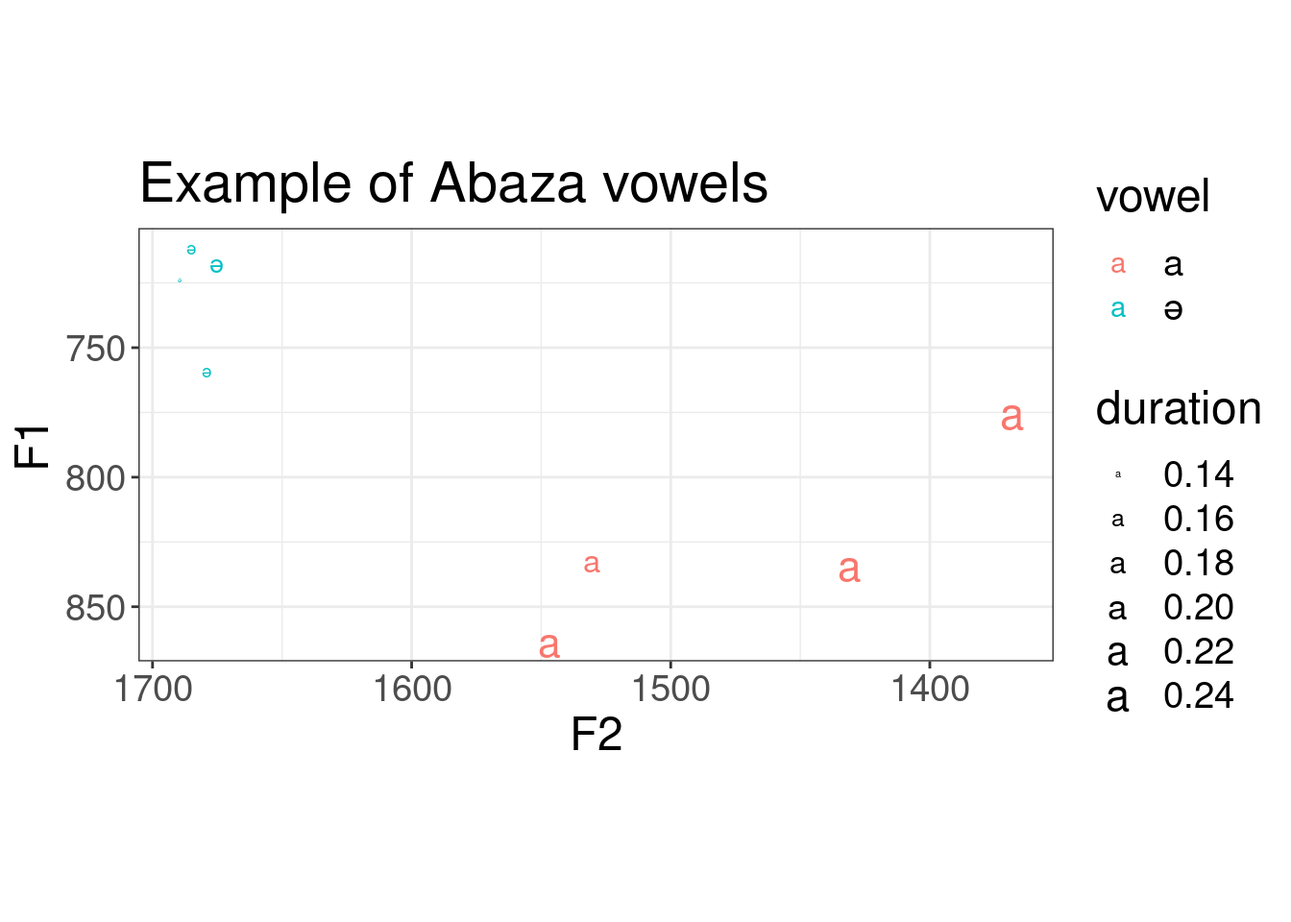
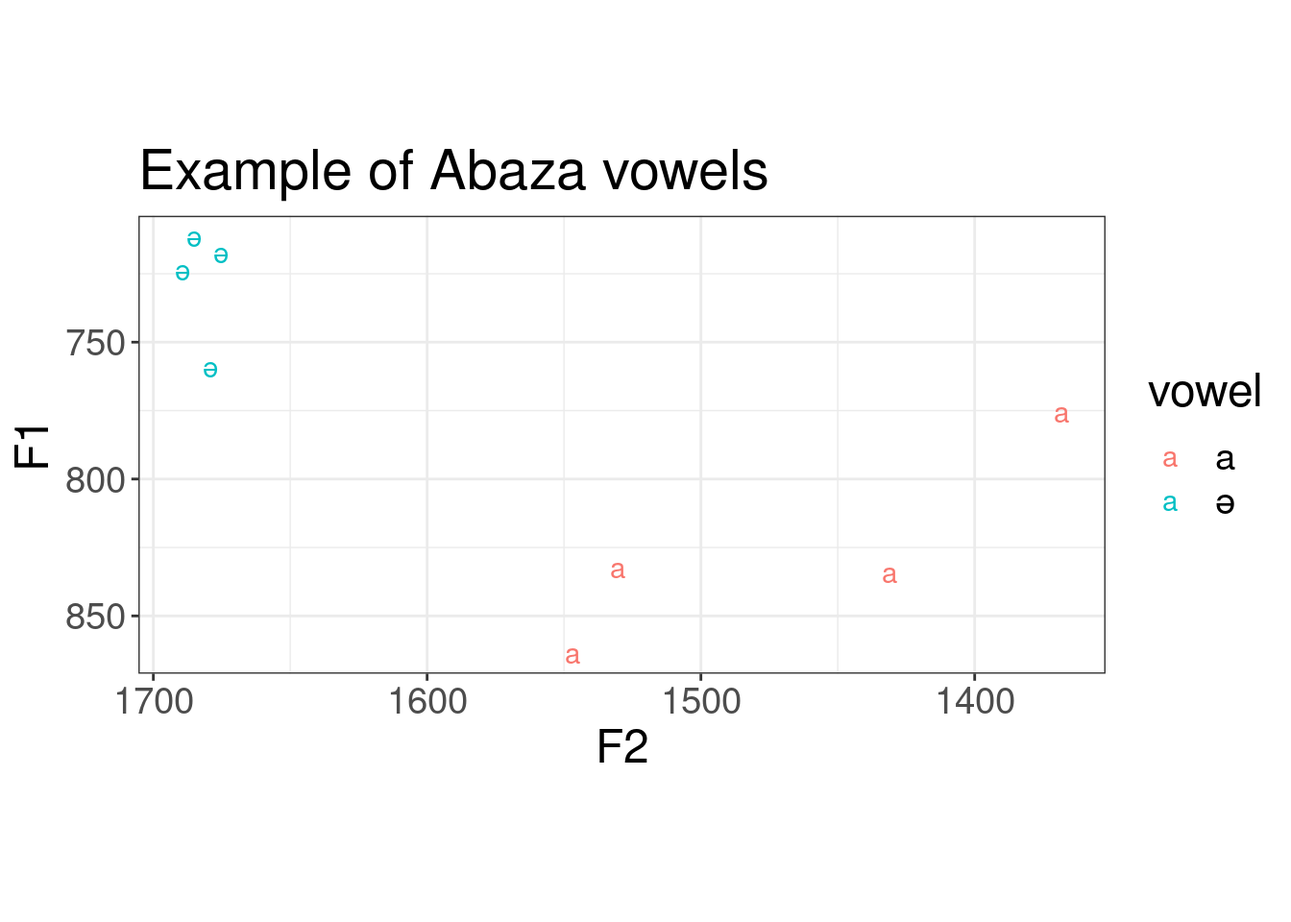
add scale

diff --git a/docs/r-packages-for-phonetics.html b/docs/r-packages-for-phonetics.html
@@ -163,7 +163,8 @@ div.csl-indent {
 <li class="chapter" data-level="1" data-path="index.html"><a href="index.html"><i class="fa fa-check"></i><b>1</b> About the course</a>
 <ul>
 <li class="chapter" data-level="1.1" data-path="index.html"><a href="index.html#recording-in-case-you-missed-the-class"><i class="fa fa-check"></i><b>1.1</b> Recording in case you missed the class</a></li>
-<li class="chapter" data-level="1.2" data-path="index.html"><a href="index.html#useful-references"><i class="fa fa-check"></i><b>1.2</b> Useful references:</a></li>
+<li class="chapter" data-level="1.2" data-path="index.html"><a href="index.html#homeworks"><i class="fa fa-check"></i><b>1.2</b> Homeworks</a></li>
+<li class="chapter" data-level="1.3" data-path="index.html"><a href="index.html#useful-references"><i class="fa fa-check"></i><b>1.3</b> Useful references:</a></li>
 </ul></li>
 <li class="chapter" data-level="2" data-path="introduction-to-acoustic-phonetics.html"><a href="introduction-to-acoustic-phonetics.html"><i class="fa fa-check"></i><b>2</b> Introduction to Acoustic Phonetics</a>
 <ul>
@@ -545,7 +546,7 @@ div.csl-indent {
 <span id="cb34-5"><a href="r-packages-for-phonetics.html#cb34-5" aria-hidden="true" tabindex="-1"></a>                           vowel <span class="sc">==</span> <span class="st">&quot;E&quot;</span> <span class="sc">~</span> <span class="st">&quot;ɛ&quot;</span>,</span>
 <span id="cb34-6"><a href="r-packages-for-phonetics.html#cb34-6" aria-hidden="true" tabindex="-1"></a>                           vowel <span class="sc">==</span> <span class="st">&quot;e&quot;</span> <span class="sc">~</span> <span class="st">&quot;e&quot;</span>,</span>
 <span id="cb34-7"><a href="r-packages-for-phonetics.html#cb34-7" aria-hidden="true" tabindex="-1"></a>                           vowel <span class="sc">==</span> <span class="st">&quot;u&quot;</span> <span class="sc">~</span> <span class="st">&quot;u&quot;</span>,</span>
-<span id="cb34-8"><a href="r-packages-for-phonetics.html#cb34-8" aria-hidden="true" tabindex="-1"></a>                           vowel <span class="sc">==</span> <span class="st">&quot;U&quot;</span> <span class="sc">~</span> <span class="st">&quot;ʊ&quot;</span>,                           </span>
+<span id="cb34-8"><a href="r-packages-for-phonetics.html#cb34-8" aria-hidden="true" tabindex="-1"></a>                           vowel <span class="sc">==</span> <span class="st">&quot;U&quot;</span> <span class="sc">~</span> <span class="st">&quot;ʊ&quot;</span>,                  </span>
 <span id="cb34-9"><a href="r-packages-for-phonetics.html#cb34-9" aria-hidden="true" tabindex="-1"></a>                           vowel <span class="sc">==</span> <span class="st">&quot;{&quot;</span> <span class="sc">~</span> <span class="st">&quot;æ&quot;</span>,</span>
 <span id="cb34-10"><a href="r-packages-for-phonetics.html#cb34-10" aria-hidden="true" tabindex="-1"></a>                           vowel <span class="sc">==</span> <span class="st">&quot;V&quot;</span> <span class="sc">~</span> <span class="st">&quot;ʌ&quot;</span>,</span>
 <span id="cb34-11"><a href="r-packages-for-phonetics.html#cb34-11" aria-hidden="true" tabindex="-1"></a>                           vowel <span class="sc">==</span> <span class="st">&quot;A&quot;</span> <span class="sc">~</span> <span class="st">&quot;ɑ&quot;</span>,</span>
@@ -560,8 +561,34 @@ div.csl-indent {
 <span id="cb34-20"><a href="r-packages-for-phonetics.html#cb34-20" aria-hidden="true" tabindex="-1"></a>  <span class="fu">coord_fixed</span>()<span class="sc">+</span></span>
 <span id="cb34-21"><a href="r-packages-for-phonetics.html#cb34-21" aria-hidden="true" tabindex="-1"></a>  <span class="fu">facet_wrap</span>(<span class="sc">~</span>type)</span></code></pre></div>
 <p><img src="2022_instrumental_phonetics_files/figure-html/unnamed-chunk-24-1.png" width="1152" /></p>
+<p>It also make sense to use normalisation for vowels:</p>
+<div class="sourceCode" id="cb35"><pre class="sourceCode r"><code class="sourceCode r"><span id="cb35-1"><a href="r-packages-for-phonetics.html#cb35-1" aria-hidden="true" tabindex="-1"></a>h95 <span class="sc">%&gt;%</span> </span>
+<span id="cb35-2"><a href="r-packages-for-phonetics.html#cb35-2" aria-hidden="true" tabindex="-1"></a>  <span class="fu">mutate</span>(<span class="at">vowel =</span> <span class="fu">case_when</span>(vowel <span class="sc">==</span> <span class="st">&quot;I&quot;</span> <span class="sc">~</span> <span class="st">&quot;ɪ&quot;</span>,</span>
+<span id="cb35-3"><a href="r-packages-for-phonetics.html#cb35-3" aria-hidden="true" tabindex="-1"></a>                           vowel <span class="sc">==</span> <span class="st">&quot;i&quot;</span> <span class="sc">~</span> <span class="st">&quot;i&quot;</span>,</span>
+<span id="cb35-4"><a href="r-packages-for-phonetics.html#cb35-4" aria-hidden="true" tabindex="-1"></a>                           vowel <span class="sc">==</span> <span class="st">&quot;E&quot;</span> <span class="sc">~</span> <span class="st">&quot;ɛ&quot;</span>,</span>
+<span id="cb35-5"><a href="r-packages-for-phonetics.html#cb35-5" aria-hidden="true" tabindex="-1"></a>                           vowel <span class="sc">==</span> <span class="st">&quot;e&quot;</span> <span class="sc">~</span> <span class="st">&quot;e&quot;</span>,</span>
+<span id="cb35-6"><a href="r-packages-for-phonetics.html#cb35-6" aria-hidden="true" tabindex="-1"></a>                           vowel <span class="sc">==</span> <span class="st">&quot;u&quot;</span> <span class="sc">~</span> <span class="st">&quot;u&quot;</span>,</span>
+<span id="cb35-7"><a href="r-packages-for-phonetics.html#cb35-7" aria-hidden="true" tabindex="-1"></a>                           vowel <span class="sc">==</span> <span class="st">&quot;U&quot;</span> <span class="sc">~</span> <span class="st">&quot;ʊ&quot;</span>,                  </span>
+<span id="cb35-8"><a href="r-packages-for-phonetics.html#cb35-8" aria-hidden="true" tabindex="-1"></a>                           vowel <span class="sc">==</span> <span class="st">&quot;{&quot;</span> <span class="sc">~</span> <span class="st">&quot;æ&quot;</span>,</span>
+<span id="cb35-9"><a href="r-packages-for-phonetics.html#cb35-9" aria-hidden="true" tabindex="-1"></a>                           vowel <span class="sc">==</span> <span class="st">&quot;V&quot;</span> <span class="sc">~</span> <span class="st">&quot;ʌ&quot;</span>,</span>
+<span id="cb35-10"><a href="r-packages-for-phonetics.html#cb35-10" aria-hidden="true" tabindex="-1"></a>                           vowel <span class="sc">==</span> <span class="st">&quot;A&quot;</span> <span class="sc">~</span> <span class="st">&quot;ɑ&quot;</span>,</span>
+<span id="cb35-11"><a href="r-packages-for-phonetics.html#cb35-11" aria-hidden="true" tabindex="-1"></a>                           vowel <span class="sc">==</span> <span class="st">&quot;O&quot;</span> <span class="sc">~</span> <span class="st">&quot;ɔ&quot;</span>,</span>
+<span id="cb35-12"><a href="r-packages-for-phonetics.html#cb35-12" aria-hidden="true" tabindex="-1"></a>                           vowel <span class="sc">==</span> <span class="st">&quot;o&quot;</span> <span class="sc">~</span> <span class="st">&quot;o&quot;</span>,</span>
+<span id="cb35-13"><a href="r-packages-for-phonetics.html#cb35-13" aria-hidden="true" tabindex="-1"></a>                           vowel <span class="sc">==</span> <span class="st">&quot;3&#39;&quot;</span> <span class="sc">~</span> <span class="st">&quot;ɝ&quot;</span>)) <span class="sc">%&gt;%</span> </span>
+<span id="cb35-14"><a href="r-packages-for-phonetics.html#cb35-14" aria-hidden="true" tabindex="-1"></a>  <span class="fu">group_by</span>(speaker) <span class="sc">%&gt;%</span> </span>
+<span id="cb35-15"><a href="r-packages-for-phonetics.html#cb35-15" aria-hidden="true" tabindex="-1"></a>  <span class="fu">mutate</span>(<span class="at">f1 =</span> <span class="fu">scale</span>(f1),</span>
+<span id="cb35-16"><a href="r-packages-for-phonetics.html#cb35-16" aria-hidden="true" tabindex="-1"></a>         <span class="at">f2 =</span> <span class="fu">scale</span>(f2)) <span class="sc">%&gt;%</span> </span>
+<span id="cb35-17"><a href="r-packages-for-phonetics.html#cb35-17" aria-hidden="true" tabindex="-1"></a>  <span class="fu">ggplot</span>(<span class="fu">aes</span>(f2, f1, <span class="at">label =</span> vowel, <span class="at">color =</span> vowel))<span class="sc">+</span></span>
+<span id="cb35-18"><a href="r-packages-for-phonetics.html#cb35-18" aria-hidden="true" tabindex="-1"></a>  <span class="fu">stat_ellipse</span>()<span class="sc">+</span></span>
+<span id="cb35-19"><a href="r-packages-for-phonetics.html#cb35-19" aria-hidden="true" tabindex="-1"></a>  <span class="fu">geom_text</span>()<span class="sc">+</span></span>
+<span id="cb35-20"><a href="r-packages-for-phonetics.html#cb35-20" aria-hidden="true" tabindex="-1"></a>  <span class="fu">scale_x_reverse</span>()<span class="sc">+</span></span>
+<span id="cb35-21"><a href="r-packages-for-phonetics.html#cb35-21" aria-hidden="true" tabindex="-1"></a>  <span class="fu">scale_y_reverse</span>()<span class="sc">+</span></span>
+<span id="cb35-22"><a href="r-packages-for-phonetics.html#cb35-22" aria-hidden="true" tabindex="-1"></a>  <span class="fu">coord_fixed</span>()<span class="sc">+</span></span>
+<span id="cb35-23"><a href="r-packages-for-phonetics.html#cb35-23" aria-hidden="true" tabindex="-1"></a>  <span class="fu">facet_wrap</span>(<span class="sc">~</span>type)<span class="sc">+</span></span>
+<span id="cb35-24"><a href="r-packages-for-phonetics.html#cb35-24" aria-hidden="true" tabindex="-1"></a>  <span class="fu">labs</span>(<span class="at">title =</span> <span class="st">&quot;Normalized vowels&quot;</span>)</span></code></pre></div>
+<p><img src="2022_instrumental_phonetics_files/figure-html/unnamed-chunk-25-1.png" width="672" /></p>
 <p>If you will use the package it make sense to cite it:</p>
-<div class="sourceCode" id="cb35"><pre class="sourceCode r"><code class="sourceCode r"><span id="cb35-1"><a href="r-packages-for-phonetics.html#cb35-1" aria-hidden="true" tabindex="-1"></a><span class="fu">citation</span>(<span class="st">&quot;phonTools&quot;</span>)</span></code></pre></div>
+<div class="sourceCode" id="cb36"><pre class="sourceCode r"><code class="sourceCode r"><span id="cb36-1"><a href="r-packages-for-phonetics.html#cb36-1" aria-hidden="true" tabindex="-1"></a><span class="fu">citation</span>(<span class="st">&quot;phonTools&quot;</span>)</span></code></pre></div>
 <pre><code>## 
 ## To cite package &#39;phonTools&#39; in publications use:
 ## 
@@ -581,7 +608,7 @@ div.csl-indent {
 <h2><span class="header-section-number">5.3</span> <code>vowels</code></h2>
 <p>Procedures for the manipulation, normalization, and plotting of phonetic and sociophonetic vowel formant data. <code>vowels</code> is the backend for the <a href="http://lingtools.uoregon.edu/norm/about_norm1.php">NORM website</a>.</p>
 <p>If you will use the package it make sense to cite it:</p>
-<div class="sourceCode" id="cb37"><pre class="sourceCode r"><code class="sourceCode r"><span id="cb37-1"><a href="r-packages-for-phonetics.html#cb37-1" aria-hidden="true" tabindex="-1"></a><span class="fu">citation</span>(<span class="st">&quot;vowels&quot;</span>)</span></code></pre></div>
+<div class="sourceCode" id="cb38"><pre class="sourceCode r"><code class="sourceCode r"><span id="cb38-1"><a href="r-packages-for-phonetics.html#cb38-1" aria-hidden="true" tabindex="-1"></a><span class="fu">citation</span>(<span class="st">&quot;vowels&quot;</span>)</span></code></pre></div>
 <pre><code>## 
 ## To cite package &#39;vowels&#39; in publications use:
 ## 
@@ -607,7 +634,7 @@ div.csl-indent {
 <h2><span class="header-section-number">5.4</span> <code>rPraat</code></h2>
 <p>This is a package for reading, writing and manipulating Praat objects like TextGrid, PitchTier, Pitch, IntensityTier, Formant, Sound, and Collection files. You can find the demo for <code>rPraat</code> <a href="https://fu.ff.cuni.cz/praat/rDemo.html">here</a>.</p>
 <p>If you will use the package it make sense to cite it:</p>
-<div class="sourceCode" id="cb39"><pre class="sourceCode r"><code class="sourceCode r"><span id="cb39-1"><a href="r-packages-for-phonetics.html#cb39-1" aria-hidden="true" tabindex="-1"></a><span class="fu">citation</span>(<span class="st">&quot;rPraat&quot;</span>)</span></code></pre></div>
+<div class="sourceCode" id="cb40"><pre class="sourceCode r"><code class="sourceCode r"><span id="cb40-1"><a href="r-packages-for-phonetics.html#cb40-1" aria-hidden="true" tabindex="-1"></a><span class="fu">citation</span>(<span class="st">&quot;rPraat&quot;</span>)</span></code></pre></div>
 <pre><code>## 
 ## To cite rPraat in publications use:
 ## 
@@ -635,7 +662,7 @@ div.csl-indent {
 <h2><span class="header-section-number">5.5</span> <code>ipa</code></h2>
 <p>Converts character vectors between phonetic representations. Supports IPA (International Phonetic Alphabet), X-SAMPA (Extended Speech Assessment Methods Phonetic Alphabet), and ARPABET (used by the CMU Pronouncing Dictionary).</p>
 <p>If you will use the package it make sense to cite it:</p>
-<div class="sourceCode" id="cb41"><pre class="sourceCode r"><code class="sourceCode r"><span id="cb41-1"><a href="r-packages-for-phonetics.html#cb41-1" aria-hidden="true" tabindex="-1"></a><span class="fu">citation</span>(<span class="st">&quot;ipa&quot;</span>)</span></code></pre></div>
+<div class="sourceCode" id="cb42"><pre class="sourceCode r"><code class="sourceCode r"><span id="cb42-1"><a href="r-packages-for-phonetics.html#cb42-1" aria-hidden="true" tabindex="-1"></a><span class="fu">citation</span>(<span class="st">&quot;ipa&quot;</span>)</span></code></pre></div>
 <pre><code>## 
 ## To cite ipa in publications use:
 ## 
@@ -707,17 +734,17 @@ for interval to intervals - 1
     endif
 endfor</code></pre>
 <p>In order to use it you need to provide path to the script:</p>
-<div class="sourceCode" id="cb46"><pre class="sourceCode r"><code class="sourceCode r"><span id="cb46-1"><a href="r-packages-for-phonetics.html#cb46-1" aria-hidden="true" tabindex="-1"></a><span class="fu">library</span>(speakr)</span></code></pre></div>
+<div class="sourceCode" id="cb47"><pre class="sourceCode r"><code class="sourceCode r"><span id="cb47-1"><a href="r-packages-for-phonetics.html#cb47-1" aria-hidden="true" tabindex="-1"></a><span class="fu">library</span>(speakr)</span></code></pre></div>
 <pre><code>## Praat found at /usr/bin/praat</code></pre>
-<div class="sourceCode" id="cb48"><pre class="sourceCode r"><code class="sourceCode r"><span id="cb48-1"><a href="r-packages-for-phonetics.html#cb48-1" aria-hidden="true" tabindex="-1"></a><span class="fu">praat_run</span>(<span class="st">&quot;sounds/speakr/get-formants-args.praat&quot;</span>, </span>
-<span id="cb48-2"><a href="r-packages-for-phonetics.html#cb48-2" aria-hidden="true" tabindex="-1"></a>          <span class="st">&quot;Hertz&quot;</span>, <span class="fl">0.03</span>, <span class="at">capture =</span> <span class="cn">TRUE</span>)</span></code></pre></div>
+<div class="sourceCode" id="cb49"><pre class="sourceCode r"><code class="sourceCode r"><span id="cb49-1"><a href="r-packages-for-phonetics.html#cb49-1" aria-hidden="true" tabindex="-1"></a><span class="fu">praat_run</span>(<span class="st">&quot;sounds/speakr/get-formants-args.praat&quot;</span>, </span>
+<span id="cb49-2"><a href="r-packages-for-phonetics.html#cb49-2" aria-hidden="true" tabindex="-1"></a>          <span class="st">&quot;Hertz&quot;</span>, <span class="fl">0.03</span>, <span class="at">capture =</span> <span class="cn">TRUE</span>)</span></code></pre></div>
 <pre><code>## [1] &quot;vowel,F1,F2,F3\na,832.4811857289797,1530.407389678815,2174.814335788099\na,775.505720968018,1368.2558211702246,2509.084391503502\na,833.9754988486553,1430.9906341641104,2375.2400400500196\na,863.5056920837876,1546.8857016095715,2890.4894773135247\nə,723.6246579247697,1689.4016617222446,2873.1991954244213\nə,717.2753390554032,1675.2062036645505,2745.5586414564323\nə,758.8975215666187,1679.0831544665587,2698.956344303706\nə,711.4372573263009,1685.1137747815465,3031.5963943557826&quot;</code></pre>
 <p>As you see the result is file in a <code>.csv</code> format. We can use the following code in order to visualise it:</p>
-<div class="sourceCode" id="cb50"><pre class="sourceCode r"><code class="sourceCode r"><span id="cb50-1"><a href="r-packages-for-phonetics.html#cb50-1" aria-hidden="true" tabindex="-1"></a><span class="fu">library</span>(tidyverse)</span>
-<span id="cb50-2"><a href="r-packages-for-phonetics.html#cb50-2" aria-hidden="true" tabindex="-1"></a><span class="fu">praat_run</span>(<span class="st">&quot;sounds/speakr/get-formants-args.praat&quot;</span>, </span>
-<span id="cb50-3"><a href="r-packages-for-phonetics.html#cb50-3" aria-hidden="true" tabindex="-1"></a>          <span class="st">&quot;Hertz&quot;</span>, <span class="fl">0.03</span>, <span class="at">capture =</span> <span class="cn">TRUE</span>) <span class="sc">%&gt;%</span> </span>
-<span id="cb50-4"><a href="r-packages-for-phonetics.html#cb50-4" aria-hidden="true" tabindex="-1"></a>  <span class="fu">read_csv</span>() <span class="ot">-&gt;</span></span>
-<span id="cb50-5"><a href="r-packages-for-phonetics.html#cb50-5" aria-hidden="true" tabindex="-1"></a>  abaza_formants</span></code></pre></div>
+<div class="sourceCode" id="cb51"><pre class="sourceCode r"><code class="sourceCode r"><span id="cb51-1"><a href="r-packages-for-phonetics.html#cb51-1" aria-hidden="true" tabindex="-1"></a><span class="fu">library</span>(tidyverse)</span>
+<span id="cb51-2"><a href="r-packages-for-phonetics.html#cb51-2" aria-hidden="true" tabindex="-1"></a><span class="fu">praat_run</span>(<span class="st">&quot;sounds/speakr/get-formants-args.praat&quot;</span>, </span>
+<span id="cb51-3"><a href="r-packages-for-phonetics.html#cb51-3" aria-hidden="true" tabindex="-1"></a>          <span class="st">&quot;Hertz&quot;</span>, <span class="fl">0.03</span>, <span class="at">capture =</span> <span class="cn">TRUE</span>) <span class="sc">%&gt;%</span> </span>
+<span id="cb51-4"><a href="r-packages-for-phonetics.html#cb51-4" aria-hidden="true" tabindex="-1"></a>  <span class="fu">read_csv</span>() <span class="ot">-&gt;</span></span>
+<span id="cb51-5"><a href="r-packages-for-phonetics.html#cb51-5" aria-hidden="true" tabindex="-1"></a>  abaza_formants</span></code></pre></div>
 <pre><code>## Rows: 8 Columns: 4</code></pre>
 <pre><code>## ── Column specification ────────────────────────────────────────────────────────
 ## Delimiter: &quot;,&quot;
@@ -726,42 +753,42 @@ endfor</code></pre>
 <pre><code>## 
 ## ℹ Use `spec()` to retrieve the full column specification for this data.
 ## ℹ Specify the column types or set `show_col_types = FALSE` to quiet this message.</code></pre>
-<div class="sourceCode" id="cb54"><pre class="sourceCode r"><code class="sourceCode r"><span id="cb54-1"><a href="r-packages-for-phonetics.html#cb54-1" aria-hidden="true" tabindex="-1"></a>abaza_formants <span class="sc">%&gt;%</span> </span>
-<span id="cb54-2"><a href="r-packages-for-phonetics.html#cb54-2" aria-hidden="true" tabindex="-1"></a>  <span class="fu">ggplot</span>(<span class="fu">aes</span>(F2, F1, <span class="at">label =</span> vowel, <span class="at">color =</span> vowel))<span class="sc">+</span></span>
-<span id="cb54-3"><a href="r-packages-for-phonetics.html#cb54-3" aria-hidden="true" tabindex="-1"></a>  <span class="fu">geom_text</span>()<span class="sc">+</span></span>
-<span id="cb54-4"><a href="r-packages-for-phonetics.html#cb54-4" aria-hidden="true" tabindex="-1"></a>  <span class="fu">scale_x_reverse</span>()<span class="sc">+</span></span>
-<span id="cb54-5"><a href="r-packages-for-phonetics.html#cb54-5" aria-hidden="true" tabindex="-1"></a>  <span class="fu">scale_y_reverse</span>()<span class="sc">+</span></span>
-<span id="cb54-6"><a href="r-packages-for-phonetics.html#cb54-6" aria-hidden="true" tabindex="-1"></a>  <span class="fu">coord_fixed</span>()<span class="sc">+</span></span>
-<span id="cb54-7"><a href="r-packages-for-phonetics.html#cb54-7" aria-hidden="true" tabindex="-1"></a>  <span class="fu">labs</span>(<span class="at">title =</span> <span class="st">&quot;Example of Abaza vowels&quot;</span>)</span></code></pre></div>
-<p><img src="2022_instrumental_phonetics_files/figure-html/unnamed-chunk-30-1.png" width="672" /></p>
+<div class="sourceCode" id="cb55"><pre class="sourceCode r"><code class="sourceCode r"><span id="cb55-1"><a href="r-packages-for-phonetics.html#cb55-1" aria-hidden="true" tabindex="-1"></a>abaza_formants <span class="sc">%&gt;%</span> </span>
+<span id="cb55-2"><a href="r-packages-for-phonetics.html#cb55-2" aria-hidden="true" tabindex="-1"></a>  <span class="fu">ggplot</span>(<span class="fu">aes</span>(F2, F1, <span class="at">label =</span> vowel, <span class="at">color =</span> vowel))<span class="sc">+</span></span>
+<span id="cb55-3"><a href="r-packages-for-phonetics.html#cb55-3" aria-hidden="true" tabindex="-1"></a>  <span class="fu">geom_text</span>()<span class="sc">+</span></span>
+<span id="cb55-4"><a href="r-packages-for-phonetics.html#cb55-4" aria-hidden="true" tabindex="-1"></a>  <span class="fu">scale_x_reverse</span>()<span class="sc">+</span></span>
+<span id="cb55-5"><a href="r-packages-for-phonetics.html#cb55-5" aria-hidden="true" tabindex="-1"></a>  <span class="fu">scale_y_reverse</span>()<span class="sc">+</span></span>
+<span id="cb55-6"><a href="r-packages-for-phonetics.html#cb55-6" aria-hidden="true" tabindex="-1"></a>  <span class="fu">coord_fixed</span>()<span class="sc">+</span></span>
+<span id="cb55-7"><a href="r-packages-for-phonetics.html#cb55-7" aria-hidden="true" tabindex="-1"></a>  <span class="fu">labs</span>(<span class="at">title =</span> <span class="st">&quot;Example of Abaza vowels&quot;</span>)</span></code></pre></div>
+<p><img src="2022_instrumental_phonetics_files/figure-html/unnamed-chunk-31-1.png" width="672" /></p>
 <p>Actually we can merge data on formants and data on duration together:</p>
-<div class="sourceCode" id="cb55"><pre class="sourceCode r"><code class="sourceCode r"><span id="cb55-1"><a href="r-packages-for-phonetics.html#cb55-1" aria-hidden="true" tabindex="-1"></a><span class="fu">library</span>(phonfieldwork)</span>
-<span id="cb55-2"><a href="r-packages-for-phonetics.html#cb55-2" aria-hidden="true" tabindex="-1"></a></span>
-<span id="cb55-3"><a href="r-packages-for-phonetics.html#cb55-3" aria-hidden="true" tabindex="-1"></a>abaza_duration <span class="ot">&lt;-</span> <span class="fu">textgrid_to_df</span>(<span class="st">&quot;sounds/speakr/s1_all.TextGrid&quot;</span>)</span>
-<span id="cb55-4"><a href="r-packages-for-phonetics.html#cb55-4" aria-hidden="true" tabindex="-1"></a>abaza_duration <span class="sc">%&gt;%</span> </span>
-<span id="cb55-5"><a href="r-packages-for-phonetics.html#cb55-5" aria-hidden="true" tabindex="-1"></a>  <span class="fu">filter</span>(tier <span class="sc">==</span> <span class="dv">3</span>,</span>
-<span id="cb55-6"><a href="r-packages-for-phonetics.html#cb55-6" aria-hidden="true" tabindex="-1"></a>         content <span class="sc">!=</span> <span class="st">&quot;&quot;</span>) <span class="sc">%&gt;%</span> </span>
-<span id="cb55-7"><a href="r-packages-for-phonetics.html#cb55-7" aria-hidden="true" tabindex="-1"></a>  <span class="fu">mutate</span>(<span class="at">duration =</span> time_end <span class="sc">-</span> time_start) <span class="sc">%&gt;%</span> </span>
-<span id="cb55-8"><a href="r-packages-for-phonetics.html#cb55-8" aria-hidden="true" tabindex="-1"></a>  <span class="fu">select</span>(content, duration) <span class="ot">-&gt;</span></span>
-<span id="cb55-9"><a href="r-packages-for-phonetics.html#cb55-9" aria-hidden="true" tabindex="-1"></a>  abaza_duration</span>
-<span id="cb55-10"><a href="r-packages-for-phonetics.html#cb55-10" aria-hidden="true" tabindex="-1"></a></span>
-<span id="cb55-11"><a href="r-packages-for-phonetics.html#cb55-11" aria-hidden="true" tabindex="-1"></a>abaza_duration</span></code></pre></div>
+<div class="sourceCode" id="cb56"><pre class="sourceCode r"><code class="sourceCode r"><span id="cb56-1"><a href="r-packages-for-phonetics.html#cb56-1" aria-hidden="true" tabindex="-1"></a><span class="fu">library</span>(phonfieldwork)</span>
+<span id="cb56-2"><a href="r-packages-for-phonetics.html#cb56-2" aria-hidden="true" tabindex="-1"></a></span>
+<span id="cb56-3"><a href="r-packages-for-phonetics.html#cb56-3" aria-hidden="true" tabindex="-1"></a>abaza_duration <span class="ot">&lt;-</span> <span class="fu">textgrid_to_df</span>(<span class="st">&quot;sounds/speakr/s1_all.TextGrid&quot;</span>)</span>
+<span id="cb56-4"><a href="r-packages-for-phonetics.html#cb56-4" aria-hidden="true" tabindex="-1"></a>abaza_duration <span class="sc">%&gt;%</span> </span>
+<span id="cb56-5"><a href="r-packages-for-phonetics.html#cb56-5" aria-hidden="true" tabindex="-1"></a>  <span class="fu">filter</span>(tier <span class="sc">==</span> <span class="dv">3</span>,</span>
+<span id="cb56-6"><a href="r-packages-for-phonetics.html#cb56-6" aria-hidden="true" tabindex="-1"></a>         content <span class="sc">!=</span> <span class="st">&quot;&quot;</span>) <span class="sc">%&gt;%</span> </span>
+<span id="cb56-7"><a href="r-packages-for-phonetics.html#cb56-7" aria-hidden="true" tabindex="-1"></a>  <span class="fu">mutate</span>(<span class="at">duration =</span> time_end <span class="sc">-</span> time_start) <span class="sc">%&gt;%</span> </span>
+<span id="cb56-8"><a href="r-packages-for-phonetics.html#cb56-8" aria-hidden="true" tabindex="-1"></a>  <span class="fu">select</span>(content, duration) <span class="ot">-&gt;</span></span>
+<span id="cb56-9"><a href="r-packages-for-phonetics.html#cb56-9" aria-hidden="true" tabindex="-1"></a>  abaza_duration</span>
+<span id="cb56-10"><a href="r-packages-for-phonetics.html#cb56-10" aria-hidden="true" tabindex="-1"></a></span>
+<span id="cb56-11"><a href="r-packages-for-phonetics.html#cb56-11" aria-hidden="true" tabindex="-1"></a>abaza_duration</span></code></pre></div>
 <div data-pagedtable="false">
 <script data-pagedtable-source type="application/json">
 {"columns":[{"label":["content"],"name":[1],"type":["chr"],"align":["left"]},{"label":["duration"],"name":[2],"type":["dbl"],"align":["right"]}],"data":[{"1":"a","2":"0.184"},{"1":"a","2":"0.241"},{"1":"a","2":"0.233"},{"1":"a","2":"0.226"},{"1":"ə","2":"0.139"},{"1":"ə","2":"0.166"},{"1":"ə","2":"0.148"},{"1":"ə","2":"0.148"}],"options":{"columns":{"min":{},"max":[10]},"rows":{"min":[10],"max":[10]},"pages":{}}}
   </script>
 </div>
-<div class="sourceCode" id="cb56"><pre class="sourceCode r"><code class="sourceCode r"><span id="cb56-1"><a href="r-packages-for-phonetics.html#cb56-1" aria-hidden="true" tabindex="-1"></a>abaza_formants <span class="sc">%&gt;%</span> </span>
-<span id="cb56-2"><a href="r-packages-for-phonetics.html#cb56-2" aria-hidden="true" tabindex="-1"></a>  <span class="fu">bind_cols</span>(abaza_duration) <span class="sc">%&gt;%</span> </span>
-<span id="cb56-3"><a href="r-packages-for-phonetics.html#cb56-3" aria-hidden="true" tabindex="-1"></a>  <span class="fu">ggplot</span>(<span class="fu">aes</span>(F2, F1, <span class="at">label =</span> vowel, <span class="at">color =</span> vowel, <span class="at">size =</span> duration))<span class="sc">+</span></span>
-<span id="cb56-4"><a href="r-packages-for-phonetics.html#cb56-4" aria-hidden="true" tabindex="-1"></a>  <span class="fu">geom_text</span>()<span class="sc">+</span></span>
-<span id="cb56-5"><a href="r-packages-for-phonetics.html#cb56-5" aria-hidden="true" tabindex="-1"></a>  <span class="fu">scale_x_reverse</span>()<span class="sc">+</span></span>
-<span id="cb56-6"><a href="r-packages-for-phonetics.html#cb56-6" aria-hidden="true" tabindex="-1"></a>  <span class="fu">scale_y_reverse</span>()<span class="sc">+</span></span>
-<span id="cb56-7"><a href="r-packages-for-phonetics.html#cb56-7" aria-hidden="true" tabindex="-1"></a>  <span class="fu">coord_fixed</span>()<span class="sc">+</span></span>
-<span id="cb56-8"><a href="r-packages-for-phonetics.html#cb56-8" aria-hidden="true" tabindex="-1"></a>  <span class="fu">labs</span>(<span class="at">title =</span> <span class="st">&quot;Example of Abaza vowels&quot;</span>)</span></code></pre></div>
-<p><img src="2022_instrumental_phonetics_files/figure-html/unnamed-chunk-31-1.png" width="672" /></p>
+<div class="sourceCode" id="cb57"><pre class="sourceCode r"><code class="sourceCode r"><span id="cb57-1"><a href="r-packages-for-phonetics.html#cb57-1" aria-hidden="true" tabindex="-1"></a>abaza_formants <span class="sc">%&gt;%</span> </span>
+<span id="cb57-2"><a href="r-packages-for-phonetics.html#cb57-2" aria-hidden="true" tabindex="-1"></a>  <span class="fu">bind_cols</span>(abaza_duration) <span class="sc">%&gt;%</span> </span>
+<span id="cb57-3"><a href="r-packages-for-phonetics.html#cb57-3" aria-hidden="true" tabindex="-1"></a>  <span class="fu">ggplot</span>(<span class="fu">aes</span>(F2, F1, <span class="at">label =</span> vowel, <span class="at">color =</span> vowel, <span class="at">size =</span> duration))<span class="sc">+</span></span>
+<span id="cb57-4"><a href="r-packages-for-phonetics.html#cb57-4" aria-hidden="true" tabindex="-1"></a>  <span class="fu">geom_text</span>()<span class="sc">+</span></span>
+<span id="cb57-5"><a href="r-packages-for-phonetics.html#cb57-5" aria-hidden="true" tabindex="-1"></a>  <span class="fu">scale_x_reverse</span>()<span class="sc">+</span></span>
+<span id="cb57-6"><a href="r-packages-for-phonetics.html#cb57-6" aria-hidden="true" tabindex="-1"></a>  <span class="fu">scale_y_reverse</span>()<span class="sc">+</span></span>
+<span id="cb57-7"><a href="r-packages-for-phonetics.html#cb57-7" aria-hidden="true" tabindex="-1"></a>  <span class="fu">coord_fixed</span>()<span class="sc">+</span></span>
+<span id="cb57-8"><a href="r-packages-for-phonetics.html#cb57-8" aria-hidden="true" tabindex="-1"></a>  <span class="fu">labs</span>(<span class="at">title =</span> <span class="st">&quot;Example of Abaza vowels&quot;</span>)</span></code></pre></div>
+<p><img src="2022_instrumental_phonetics_files/figure-html/unnamed-chunk-32-1.png" width="672" /></p>
 <p>If you will use the package it make sense to cite it:</p>
-<div class="sourceCode" id="cb57"><pre class="sourceCode r"><code class="sourceCode r"><span id="cb57-1"><a href="r-packages-for-phonetics.html#cb57-1" aria-hidden="true" tabindex="-1"></a><span class="fu">citation</span>(<span class="st">&quot;speakr&quot;</span>)</span></code></pre></div>
+<div class="sourceCode" id="cb58"><pre class="sourceCode r"><code class="sourceCode r"><span id="cb58-1"><a href="r-packages-for-phonetics.html#cb58-1" aria-hidden="true" tabindex="-1"></a><span class="fu">citation</span>(<span class="st">&quot;speakr&quot;</span>)</span></code></pre></div>
 <pre><code>## 
 ## To cite package &#39;speakr&#39; in publications use:
 ## 

diff --git a/docs/404.html b/docs/404.html
@@ -163,7 +163,8 @@ div.csl-indent {
 <li class="chapter" data-level="1" data-path="index.html"><a href="index.html"><i class="fa fa-check"></i><b>1</b> About the course</a>
 <ul>
 <li class="chapter" data-level="1.1" data-path="index.html"><a href="index.html#recording-in-case-you-missed-the-class"><i class="fa fa-check"></i><b>1.1</b> Recording in case you missed the class</a></li>
-<li class="chapter" data-level="1.2" data-path="index.html"><a href="index.html#useful-references"><i class="fa fa-check"></i><b>1.2</b> Useful references:</a></li>
+<li class="chapter" data-level="1.2" data-path="index.html"><a href="index.html#homeworks"><i class="fa fa-check"></i><b>1.2</b> Homeworks</a></li>
+<li class="chapter" data-level="1.3" data-path="index.html"><a href="index.html#useful-references"><i class="fa fa-check"></i><b>1.3</b> Useful references:</a></li>
 </ul></li>
 <li class="chapter" data-level="2" data-path="introduction-to-acoustic-phonetics.html"><a href="introduction-to-acoustic-phonetics.html"><i class="fa fa-check"></i><b>2</b> Introduction to Acoustic Phonetics</a>
 <ul>
